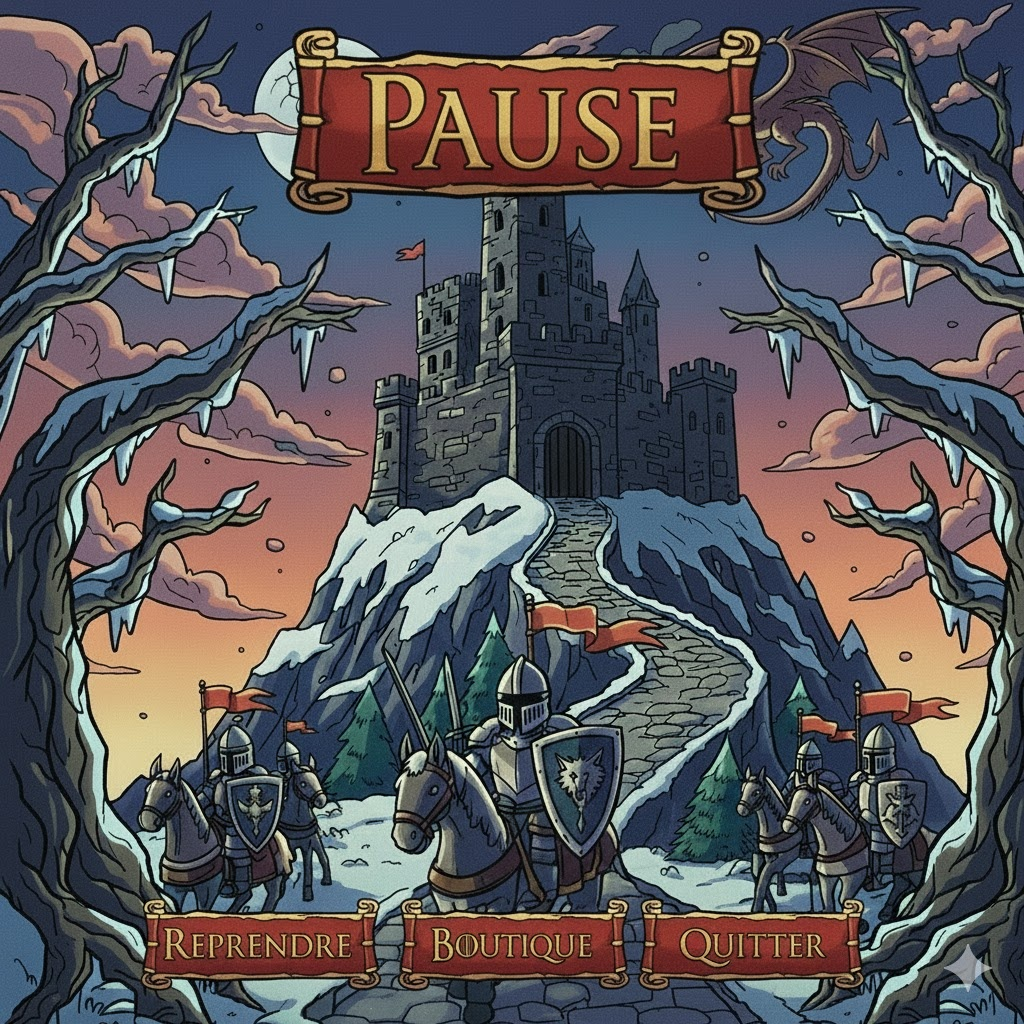
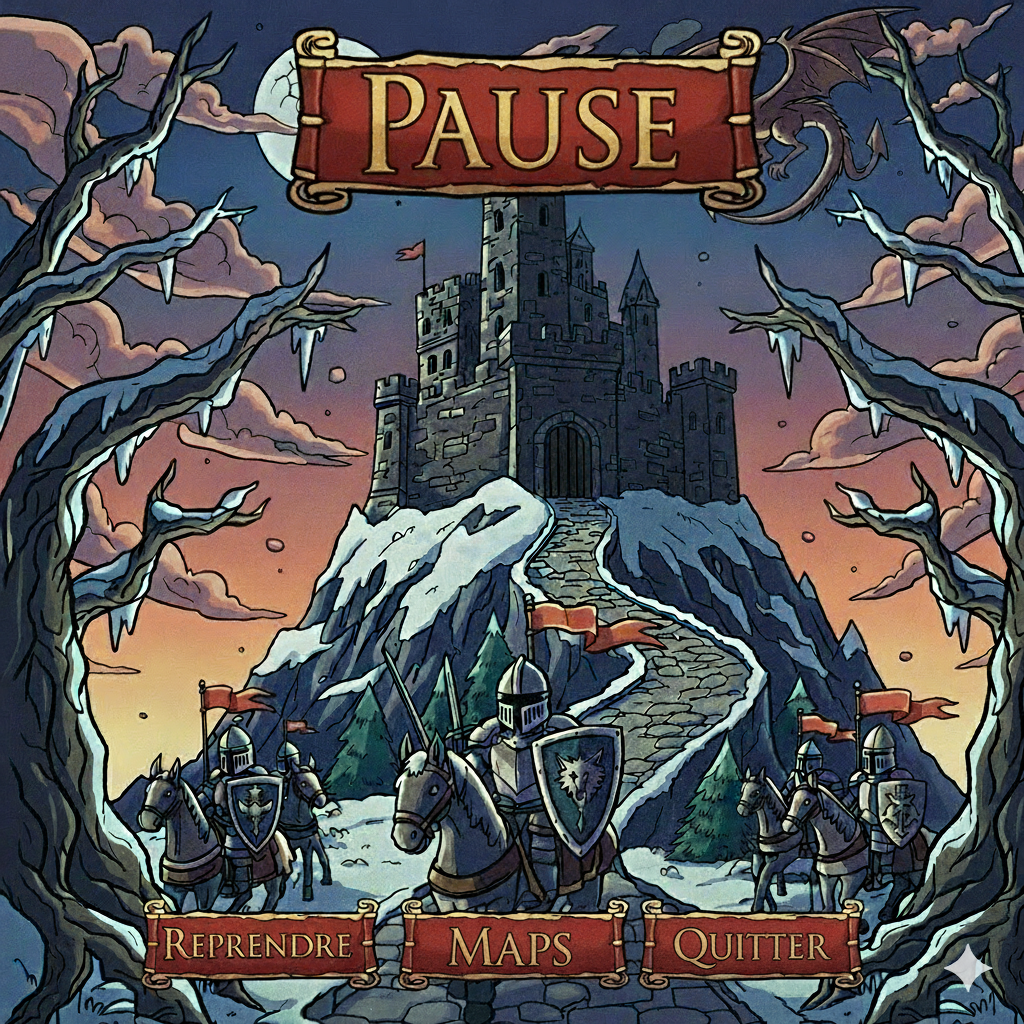
Changement de UCPause

diff --git a/GameOfThrones/UCPause.xaml b/GameOfThrones/UCPause.xaml
@@ -19,7 +19,7 @@
                 <SolidColorBrush Color="#FFDDDDDD" Opacity="0"/>
             </Button.Background>
         </Button>
-        <Button x:Name="butBoutique" Content="" HorizontalAlignment="Center" Margin="0,537,0,0" VerticalAlignment="Top" Height="34" Width="196">
+        <Button x:Name="butMaps" Content="" HorizontalAlignment="Center" Margin="0,537,0,0" VerticalAlignment="Top" Height="34" Width="196">
             <Button.Foreground>
                 <SolidColorBrush Color="Black" Opacity="0"/>
             </Button.Foreground>

diff --git a/GameOfThrones/MainWindow.xaml.cs b/GameOfThrones/MainWindow.xaml.cs
@@ -91,7 +91,7 @@ namespace GameOfThrones
             UCPause uc = new UCPause();
             AireJeu.Content = uc;
             uc.butReprendre.Click += AfficheUCJeu;
-
+            uc.butMaps.Click += AfficheUCMaps;
             uc.butQuitter.Click += RetourUCDemarrage;
         }
 
